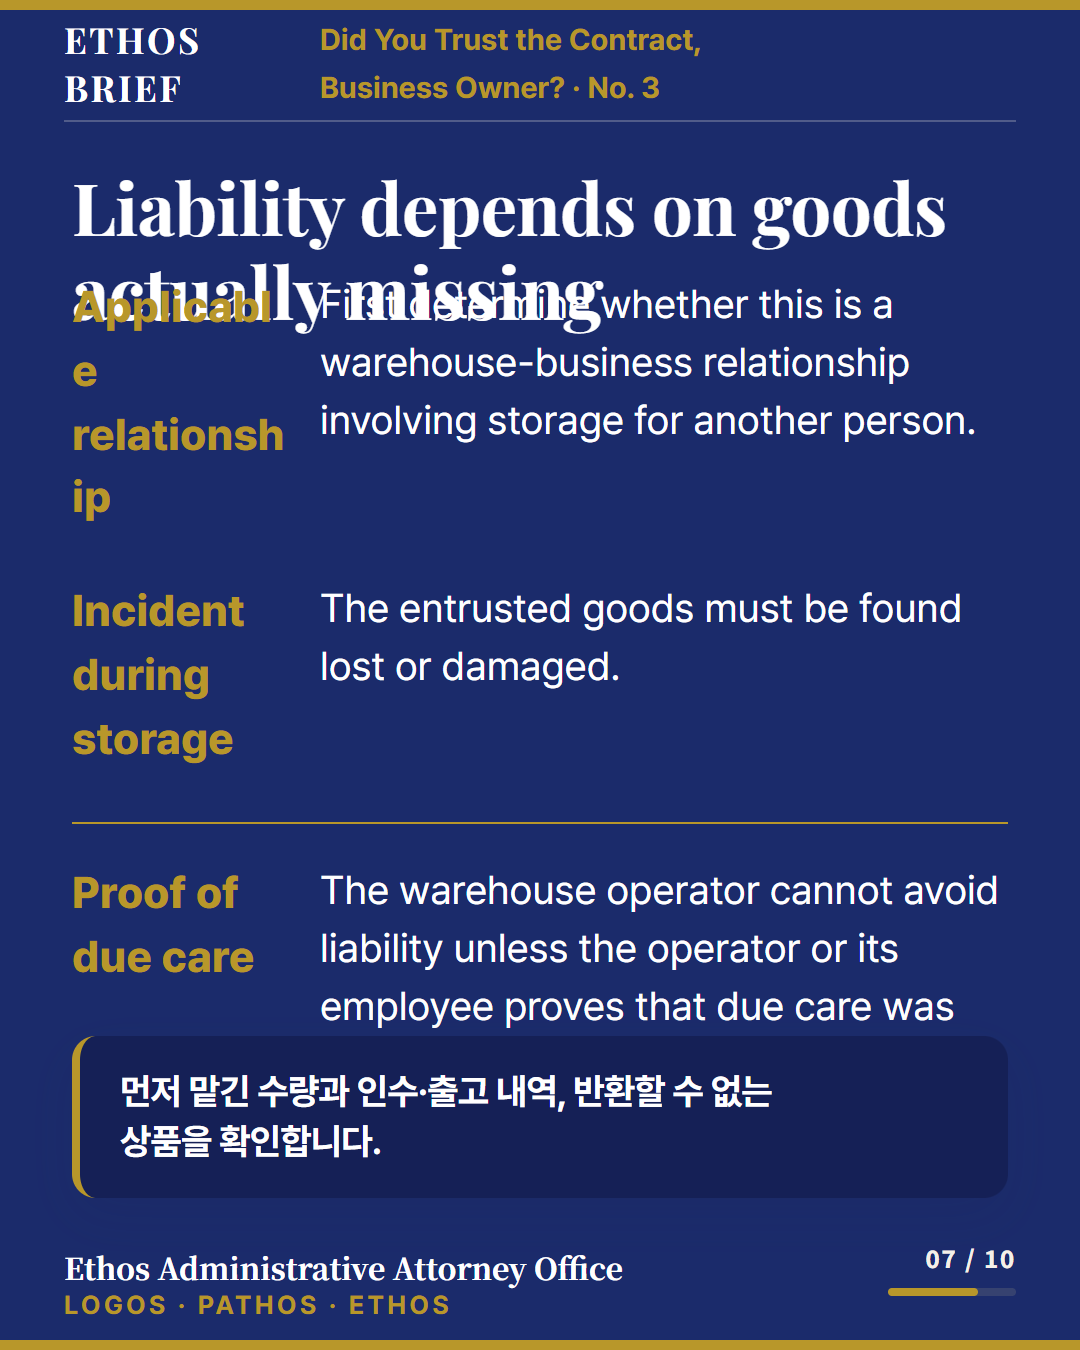
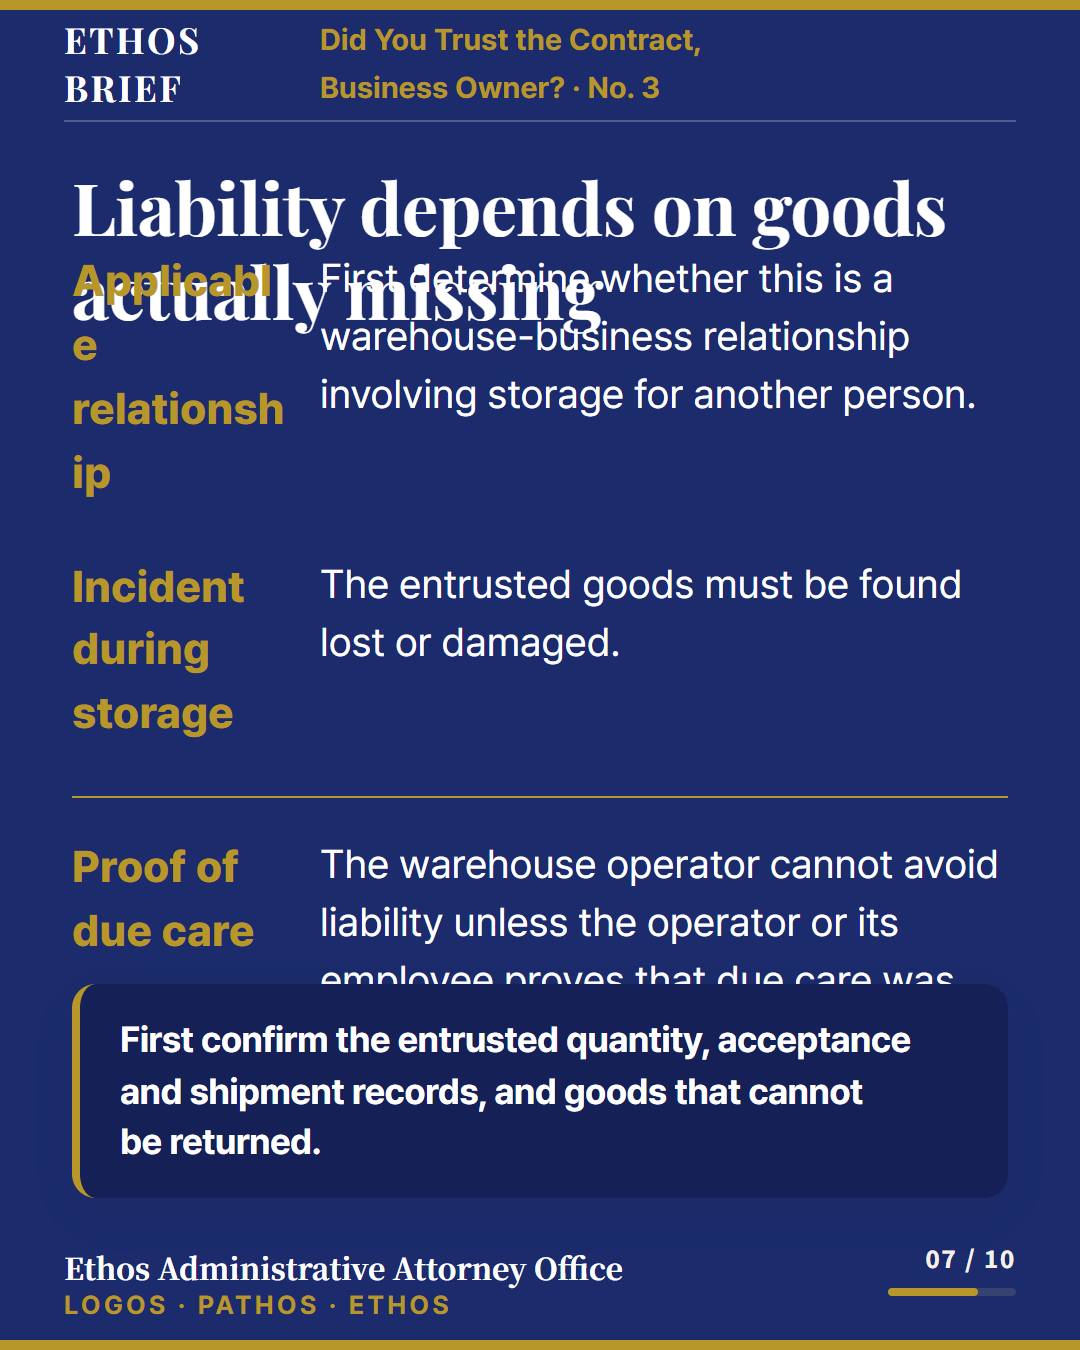
fix(cards): remove Korean copy from English renders

Changed region(s): [[0.0611, 0.6222, 0.9472, 0.8711], [0.0611, 0.1867, 0.9167, 0.5911], [0.275, 0.4044, 0.8861, 0.5289]]

diff --git a/content/CONTRACT-WAREHOUSE-INVENTORY-03-KO-CARDS/en/card_02.html b/content/CONTRACT-WAREHOUSE-INVENTORY-03-KO-CARDS/en/card_02.html
@@ -15,7 +15,7 @@
   <div class="body">
     <div class="z-title" data-zone="title"><h2 class="h2" data-role="headline">What if the three numbers do not match?</h2></div>
 <div class="z-main" data-zone="main"><div class="inventory-bars" data-focal><div class="inventory-row"><div class="inventory-label"><b>Company ledger</b><strong>1,200 units</strong></div><div class="track"><div class="fill" style="width:100.0000%"></div></div><p>Quantity reflecting purchases and sales</p></div><div class="inventory-row"><div class="inventory-label"><b>Warehouse ledger</b><strong>1,150 units</strong></div><div class="track"><div class="fill" style="width:95.8333%"></div></div><p>Quantity managed for warehouse receipts and shipments</p></div><div class="inventory-row"><div class="inventory-label"><b>Physical count</b><strong>1,130 units</strong></div><div class="track"><div class="fill" style="width:94.1667%"></div></div><p>Quantity counted in the warehouse</p></div></div></div>
-<div class="z-take" data-zone="take"><div class="close" data-role="takeaway">50개와 20개의 차이를 따로 확인합니다.</div></div>
+<div class="z-take" data-zone="take"><div class="close" data-role="takeaway">Check the 50-unit and 20-unit differences separately.</div></div>
   </div>
   <div class="ftr"><div class="org" data-frame="org">Ethos Administrative Attorney Office</div><div class="tagl" data-frame="tagline">LOGOS · PATHOS · ETHOS</div><div class="pg" data-frame="page" aria-hidden="true" data-progress="02 / 10"></div></div>
   <div class="gold-bottom" data-frame="gold-bottom"></div>

diff --git a/content/CONTRACT-WAREHOUSE-INVENTORY-03-KO-CARDS/en/card_10.html b/content/CONTRACT-WAREHOUSE-INVENTORY-03-KO-CARDS/en/card_10.html
@@ -15,7 +15,7 @@
   <div class="body">
     <div class="z-title" data-zone="title"><h2 class="h2" data-role="headline">Review the contract and records together</h2></div>
 <div class="z-main" data-zone="main"><div class="handoff" data-focal><section><h3>Prepare directly</h3><p>Prepare the logistics-service contract, receipt and shipment records, return and adjustment records, and the latest count sheet. Start by matching quantities at the same time.</p></section><section><h3>Document work</h3><p>This work reflects agreed receipt-confirmation standards, shipment approvals, and count and adjustment procedures in contract documents. Damages disputes or limitation periods may require attorney review.</p></section></div></div>
-<div class="z-take" data-zone="take"><div class="take" data-role="takeaway">보내 주신 자료로 대조할 기록과 계약서의 빠진 기준을 무료 사전 검토해 드립니다.</div></div>
+<div class="z-take" data-zone="take"><div class="take" data-role="takeaway">A free preliminary review can identify which records to compare and which standards are missing from the contract.</div></div>
   </div>
   <div class="ftr"><div class="org" data-frame="org">Ethos Administrative Attorney Office</div><div class="tagl" data-frame="tagline">LOGOS · PATHOS · ETHOS</div><div class="pg" data-frame="page" aria-hidden="true" data-progress="10 / 10"></div></div>
   <div class="gold-bottom" data-frame="gold-bottom"></div>

diff --git a/content/CONTRACT-WAREHOUSE-INVENTORY-03-KO-CARDS/en/card_07.html b/content/CONTRACT-WAREHOUSE-INVENTORY-03-KO-CARDS/en/card_07.html
@@ -15,7 +15,7 @@
   <div class="body">
     <div class="z-title" data-zone="title"><h2 class="h2" data-role="headline">Liability depends on goods actually missing</h2></div>
 <div class="z-main" data-zone="main"><div class="liability" data-focal><section><h3>Applicable relationship</h3><p>First determine whether this is a warehouse-business relationship involving storage for another person.</p></section><section><h3>Incident during storage</h3><p>The entrusted goods must be found lost or damaged.</p></section><section><h3>Proof of due care</h3><p>The warehouse operator cannot avoid liability unless the operator or its employee proves that due care was exercised in storage.</p></section></div></div>
-<div class="z-take" data-zone="take"><div class="take" data-role="takeaway">먼저 맡긴 수량과 <span class="nobr">인수·출고</span> 내역, 반환할 수 없는 상품을 확인합니다.</div></div>
+<div class="z-take" data-zone="take"><div class="take" data-role="takeaway">First confirm the entrusted quantity, acceptance and shipment records, and goods that cannot be returned.</div></div>
   </div>
   <div class="ftr"><div class="org" data-frame="org">Ethos Administrative Attorney Office</div><div class="tagl" data-frame="tagline">LOGOS · PATHOS · ETHOS</div><div class="pg" data-frame="page" aria-hidden="true" data-progress="07 / 10"></div></div>
   <div class="gold-bottom" data-frame="gold-bottom"></div>

diff --git a/content/CONTRACT-WAREHOUSE-INVENTORY-03-KO-CARDS/en/card_05.html b/content/CONTRACT-WAREHOUSE-INVENTORY-03-KO-CARDS/en/card_05.html
@@ -15,7 +15,7 @@
   <div class="body">
     <div class="z-title" data-zone="title"><h2 class="h2" data-role="headline">“Mutual discussion” alone leaves no record.</h2></div>
 <div class="z-main" data-zone="main"><div class="contract-edit" data-focal><section><h3>Before</h3><p>“The custodian shall store the entrusted goods with due care and handle any inventory difference through discussion between the parties.”</p></section><section><h3>Revision direction</h3><p>Record expected, inspected and confirmed receipt quantities separately, and ship through the agreed approval route. Keep the reason, time and person responsible for cancellations, returns, defective-goods movement and inventory adjustments.</p></section></div></div>
-<div class="z-take" data-zone="take"><div class="close" data-role="takeaway">당사자가 합의한 업무 방식을 계약서에 구체적으로 적습니다.</div></div>
+<div class="z-take" data-zone="take"><div class="close" data-role="takeaway">Write the parties’ agreed work process into the contract.</div></div>
   </div>
   <div class="ftr"><div class="org" data-frame="org">Ethos Administrative Attorney Office</div><div class="tagl" data-frame="tagline">LOGOS · PATHOS · ETHOS</div><div class="pg" data-frame="page" aria-hidden="true" data-progress="05 / 10"></div></div>
   <div class="gold-bottom" data-frame="gold-bottom"></div>

diff --git a/content/CONTRACT-WAREHOUSE-INVENTORY-03-KO-CARDS/en/card_04.html b/content/CONTRACT-WAREHOUSE-INVENTORY-03-KO-CARDS/en/card_04.html
@@ -30,7 +30,7 @@
   <path d="M5 7a2 2 0 0 0-2 2v11a2 2 0 0 0 2 2h8a2 2 0 0 0 1.732-1" />
 </svg>
 </div><div class="record-head"><b>Records to compare</b><b>What to check</b></div><div class="record-row"><h3>Receipt confirmation</h3><p>Confirm the quantity accepted by the warehouse.</p></div><div class="record-row"><h3>Shipment and handoff</h3><p>Separate the request, actual processing and courier handoff.</p></div><div class="record-row"><h3>Return and inspection</h3><p>Compare returned goods with the inspection record.</p></div><div class="record-row"><h3>Count and adjustments</h3><p>Check who changed the quantity and why.</p></div></div></div>
-<div class="z-take" data-zone="take"><div class="close" data-role="takeaway">수정 전 원본을 남기고, 마지막으로 수량이 같았던 때부터 봅니다.</div></div>
+<div class="z-take" data-zone="take"><div class="close" data-role="takeaway">Keep the original before editing and start from the last time the quantities matched.</div></div>
   </div>
   <div class="ftr"><div class="org" data-frame="org">Ethos Administrative Attorney Office</div><div class="tagl" data-frame="tagline">LOGOS · PATHOS · ETHOS</div><div class="pg" data-frame="page" aria-hidden="true" data-progress="04 / 10"></div></div>
   <div class="gold-bottom" data-frame="gold-bottom"></div>

diff --git a/content/CONTRACT-WAREHOUSE-INVENTORY-03-KO-CARDS/en/card_03.html b/content/CONTRACT-WAREHOUSE-INVENTORY-03-KO-CARDS/en/card_03.html
@@ -15,7 +15,7 @@
   <div class="body">
     <div class="z-title" data-zone="title"><h2 class="h2" data-role="headline">The 50-unit and 20-unit gaps may have different causes.</h2></div>
 <div class="z-main" data-zone="main"><div class="differences" data-focal><section><h3>50-unit ledger gap</h3><p>A shipment may have been recorded late in the company ledger. Check cancelled orders and the timing of return inspections.</p></section><section><h3>20-unit physical gap</h3><p>Check whether a shelf or defective-goods area was missed. The goods may have been shipped incorrectly or actually lost.</p></section></div></div>
-<div class="z-take" data-zone="take"><div class="close" data-role="takeaway">같은 기준시각, 상품코드와 수량 단위로 비교합니다.</div></div>
+<div class="z-take" data-zone="take"><div class="close" data-role="takeaway">Compare them using the same timestamp, product code and unit of count.</div></div>
   </div>
   <div class="ftr"><div class="org" data-frame="org">Ethos Administrative Attorney Office</div><div class="tagl" data-frame="tagline">LOGOS · PATHOS · ETHOS</div><div class="pg" data-frame="page" aria-hidden="true" data-progress="03 / 10"></div></div>
   <div class="gold-bottom" data-frame="gold-bottom"></div>

diff --git a/content/CONTRACT-WAREHOUSE-INVENTORY-03-KO-CARDS/en/card_09.html b/content/CONTRACT-WAREHOUSE-INVENTORY-03-KO-CARDS/en/card_09.html
@@ -32,7 +32,7 @@
   <circle cx="7" cy="18" r="2" />
 </svg>
 </div><div class="judgment-source" data-role="note">Supreme Court, July 10, 2019, 2019Da213009</div><div class="judgment-body">The Court treated multimodal transport as the core element of a comprehensive logistics operation contract that included storage, logistics-information use and port handling.</div><div class="judgment-boundary">This ruling concerned the character of a specific contract and cargo loss. It did not classify every fulfillment contract as a transport contract.</div></div></div>
-<div class="z-take" data-zone="take"><div class="close" data-role="takeaway">택배사 인계 전후를 구분해 인계증빙과 운송 기록도 살펴봅니다.</div></div>
+<div class="z-take" data-zone="take"><div class="close" data-role="takeaway">Separate the period before and after courier handoff, and review handoff proof and transport records.</div></div>
   </div>
   <div class="ftr"><div class="org" data-frame="org">Ethos Administrative Attorney Office</div><div class="tagl" data-frame="tagline">LOGOS · PATHOS · ETHOS</div><div class="pg" data-frame="page" aria-hidden="true" data-progress="09 / 10"></div></div>
   <div class="gold-bottom" data-frame="gold-bottom"></div>

diff --git a/content/CONTRACT-WAREHOUSE-INVENTORY-03-KO-CARDS/en/card_06.html b/content/CONTRACT-WAREHOUSE-INVENTORY-03-KO-CARDS/en/card_06.html
@@ -15,7 +15,7 @@
   <div class="body">
     <div class="z-title" data-zone="title"><h2 class="h2" data-role="headline">Set the standard for a discrepancy</h2></div>
 <div class="z-main" data-zone="main"><div class="criteria" data-focal><section><h3>Same records</h3><p>Compare receipt and shipment records, return and adjustment records, and the count result at the same reference time.</p></section><section><h3>Liability assessment</h3><p>If loss or damage is established, assess liability and the amount of loss under applicable law and the contract.</p></section></div></div>
-<div class="z-take" data-zone="take"><div class="close" data-role="takeaway">멸실은 물건이 없어지는 것, 훼손은 물건이 손상되는 것입니다.</div></div>
+<div class="z-take" data-zone="take"><div class="close" data-role="takeaway">Loss means the goods are gone; damage means the goods are harmed.</div></div>
   </div>
   <div class="ftr"><div class="org" data-frame="org">Ethos Administrative Attorney Office</div><div class="tagl" data-frame="tagline">LOGOS · PATHOS · ETHOS</div><div class="pg" data-frame="page" aria-hidden="true" data-progress="06 / 10"></div></div>
   <div class="gold-bottom" data-frame="gold-bottom"></div>

diff --git a/content/CONTRACT-WAREHOUSE-INVENTORY-03-KO-CARDS/en/card_08.html b/content/CONTRACT-WAREHOUSE-INVENTORY-03-KO-CARDS/en/card_08.html
@@ -32,7 +32,7 @@
   <path d="m8.5 7.5 8 8" />
 </svg>
 </div><div class="judgment-source" data-role="note">Supreme Court, Dec. 22, 1981, 80Da1609</div><div class="judgment-body">The case concerned silk held as collateral. The Court held that “loss” under Article 166 of the Commercial Act includes unauthorized shipment that makes it impossible to return the goods to the person who entrusted them.</div><div class="judgment-boundary">Modern fulfillment contracts have a different structure. The ruling can guide review of shipment authority and approval records.</div></div></div>
-<div class="z-take" data-zone="take"><div class="close" data-role="takeaway">누가 요청했고 어떤 승인을 거쳐 출고했는지 확인합니다.</div></div>
+<div class="z-take" data-zone="take"><div class="close" data-role="takeaway">Check who requested the shipment and what approval preceded it.</div></div>
   </div>
   <div class="ftr"><div class="org" data-frame="org">Ethos Administrative Attorney Office</div><div class="tagl" data-frame="tagline">LOGOS · PATHOS · ETHOS</div><div class="pg" data-frame="page" aria-hidden="true" data-progress="08 / 10"></div></div>
   <div class="gold-bottom" data-frame="gold-bottom"></div>

diff --git a/content/CONTRACT-WAREHOUSE-INVENTORY-03-KO-CARDS/en/card_01.html b/content/CONTRACT-WAREHOUSE-INVENTORY-03-KO-CARDS/en/card_01.html
@@ -46,7 +46,7 @@
   <path d="m9 14 2 2 4-4" />
 </svg>
 </div></div><div class="cover-copy"><p>When quantities differ, separate the records first.</p><p class="promise" data-role="note">A way to find the cause of the discrepancy</p></div></div>
-<div class="z-take" data-zone="take"><div class="take" data-role="takeaway">장부의 차이가 곧바로 <span class="nobr">분실·배상책임은</span> 아닙니다.</div></div>
+<div class="z-take" data-zone="take"><div class="take" data-role="takeaway">A ledger difference does not by itself prove loss or liability.</div></div>
   </div>
   <div class="ftr"><div class="org" data-frame="org">Ethos Administrative Attorney Office</div><div class="tagl" data-frame="tagline">LOGOS · PATHOS · ETHOS</div><div class="pg" data-frame="page" aria-hidden="true" data-progress="01 / 10"></div></div>
   <div class="gold-bottom" data-frame="gold-bottom"></div>

diff --git a/content/CONTRACT-WAREHOUSE-INVENTORY-03-KO-CARDS/out/en/qa-report.md b/content/CONTRACT-WAREHOUSE-INVENTORY-03-KO-CARDS/out/en/qa-report.md
@@ -4,16 +4,16 @@
 
 | 카드 | 유형 | 글자수 | 단어수 | 본문 채움 | 하단 여백 | 결과 |
 |---|---|---:|---:|---:|---:|---|
-| card_01.html | cover | 155 | 33 | 1.1 | 26 | FAIL |
-| card_02.html | checklist | 233 | 42 | 0.87 | 26 | FAIL |
-| card_03.html | comparison | 308 | 60 | 0.84 | 26 | FAIL |
-| card_04.html | table | 343 | 61 | 1.08 | 26 | FAIL |
-| card_05.html | comparison | 416 | 66 | 1.11 | 26 | FAIL |
-| card_06.html | concept | 280 | 55 | 0.75 | 26 | FAIL |
-| card_07.html | concept | 367 | 67 | 1.17 | 26 | FAIL |
-| card_08.html | quote | 393 | 74 | 0.97 | 26 | FAIL |
-| card_09.html | quote | 376 | 66 | 0.92 | 26 | FAIL |
-| card_10.html | cta | 427 | 72 | 1.18 | 26 | FAIL |
+| card_01.html | cover | 186 | 39 | 1.23 | 26 | FAIL |
+| card_02.html | checklist | 261 | 44 | 0.87 | 26 | FAIL |
+| card_03.html | comparison | 344 | 66 | 0.91 | 26 | FAIL |
+| card_04.html | table | 387 | 66 | 1.15 | 26 | FAIL |
+| card_05.html | comparison | 439 | 68 | 1.11 | 26 | FAIL |
+| card_06.html | concept | 307 | 59 | 0.81 | 26 | FAIL |
+| card_07.html | concept | 428 | 72 | 1.26 | 26 | FAIL |
+| card_08.html | quote | 423 | 77 | 1.04 | 26 | FAIL |
+| card_09.html | quote | 436 | 73 | 0.99 | 26 | FAIL |
+| card_10.html | cta | 490 | 78 | 1.28 | 26 | FAIL |
 
 ### card_01.html
 - zone-overflow:main
@@ -28,14 +28,18 @@
 - frame-drift wordmark.top: 8.0 != 20
 - frame-drift section.top: 8.0 != 20
 
+### card_03.html 권고
+- chars 344 > 권고 340 (문장 압축 또는 카드 분리 검토)
+- words 66 > 권고 60 (영문 호흡과 모바일 가독성 확인)
+
 ### card_04.html
 - zone-overflow:main
 - frame-drift wordmark.top: 8.0 != 20
 - frame-drift section.top: 8.0 != 20
 
 ### card_04.html 권고
-- chars 343 > 권고 340 (문장 압축 또는 카드 분리 검토)
-- words 61 > 권고 60 (영문 호흡과 모바일 가독성 확인)
+- chars 387 > 권고 340 (문장 압축 또는 카드 분리 검토)
+- words 66 > 권고 60 (영문 호흡과 모바일 가독성 확인)
 
 ### card_05.html
 - zone-overflow:main
@@ -43,8 +47,8 @@
 - frame-drift section.top: 8.0 != 20
 
 ### card_05.html 권고
-- chars 416 > 권고 340 (문장 압축 또는 카드 분리 검토)
-- words 66 > 권고 60 (영문 호흡과 모바일 가독성 확인)
+- chars 439 > 강한 경고 340 (문장 압축 또는 카드 분리 검토)
+- words 68 > 권고 60 (영문 호흡과 모바일 가독성 확인)
 - paragraph-lines 6 > 권장 4: 'Record expecte'
 
 ### card_06.html
@@ -57,16 +61,17 @@
 - frame-drift section.top: 8.0 != 20
 
 ### card_07.html 권고
-- chars 367 > 권고 340 (문장 압축 또는 카드 분리 검토)
-- words 67 > 권고 60 (영문 호흡과 모바일 가독성 확인)
+- chars 428 > 강한 경고 340 (문장 압축 또는 카드 분리 검토)
+- words 72 > 권고 60 (영문 호흡과 모바일 가독성 확인)
 
 ### card_08.html
+- zone-overflow:main
 - frame-drift wordmark.top: 8.0 != 20
 - frame-drift section.top: 8.0 != 20
 
 ### card_08.html 권고
-- chars 393 > 권고 340 (문장 압축 또는 카드 분리 검토)
-- words 74 > 강한 경고 60 (영문 호흡과 모바일 가독성 확인)
+- chars 423 > 강한 경고 340 (문장 압축 또는 카드 분리 검토)
+- words 77 > 강한 경고 60 (영문 호흡과 모바일 가독성 확인)
 - paragraph-lines 6 > 권장 4: 'The case conce'
 
 ### card_09.html
@@ -74,8 +79,8 @@
 - frame-drift section.top: 8.0 != 20
 
 ### card_09.html 권고
-- chars 376 > 권고 340 (문장 압축 또는 카드 분리 검토)
-- words 66 > 권고 60 (영문 호흡과 모바일 가독성 확인)
+- chars 436 > 강한 경고 340 (문장 압축 또는 카드 분리 검토)
+- words 73 > 강한 경고 60 (영문 호흡과 모바일 가독성 확인)
 
 ### card_10.html
 - zone-overflow:main
@@ -83,8 +88,8 @@
 - frame-drift section.top: 8.0 != 20
 
 ### card_10.html 권고
-- chars 427 > 강한 경고 340 (문장 압축 또는 카드 분리 검토)
-- words 72 > 권고 60 (영문 호흡과 모바일 가독성 확인)
+- chars 490 > 강한 경고 340 (문장 압축 또는 카드 분리 검토)
+- words 78 > 강한 경고 60 (영문 호흡과 모바일 가독성 확인)
 - paragraph-lines 5 > 권장 4: 'This work refl'
 
 ## 사람이 확인할 것 (자동화 불가)
